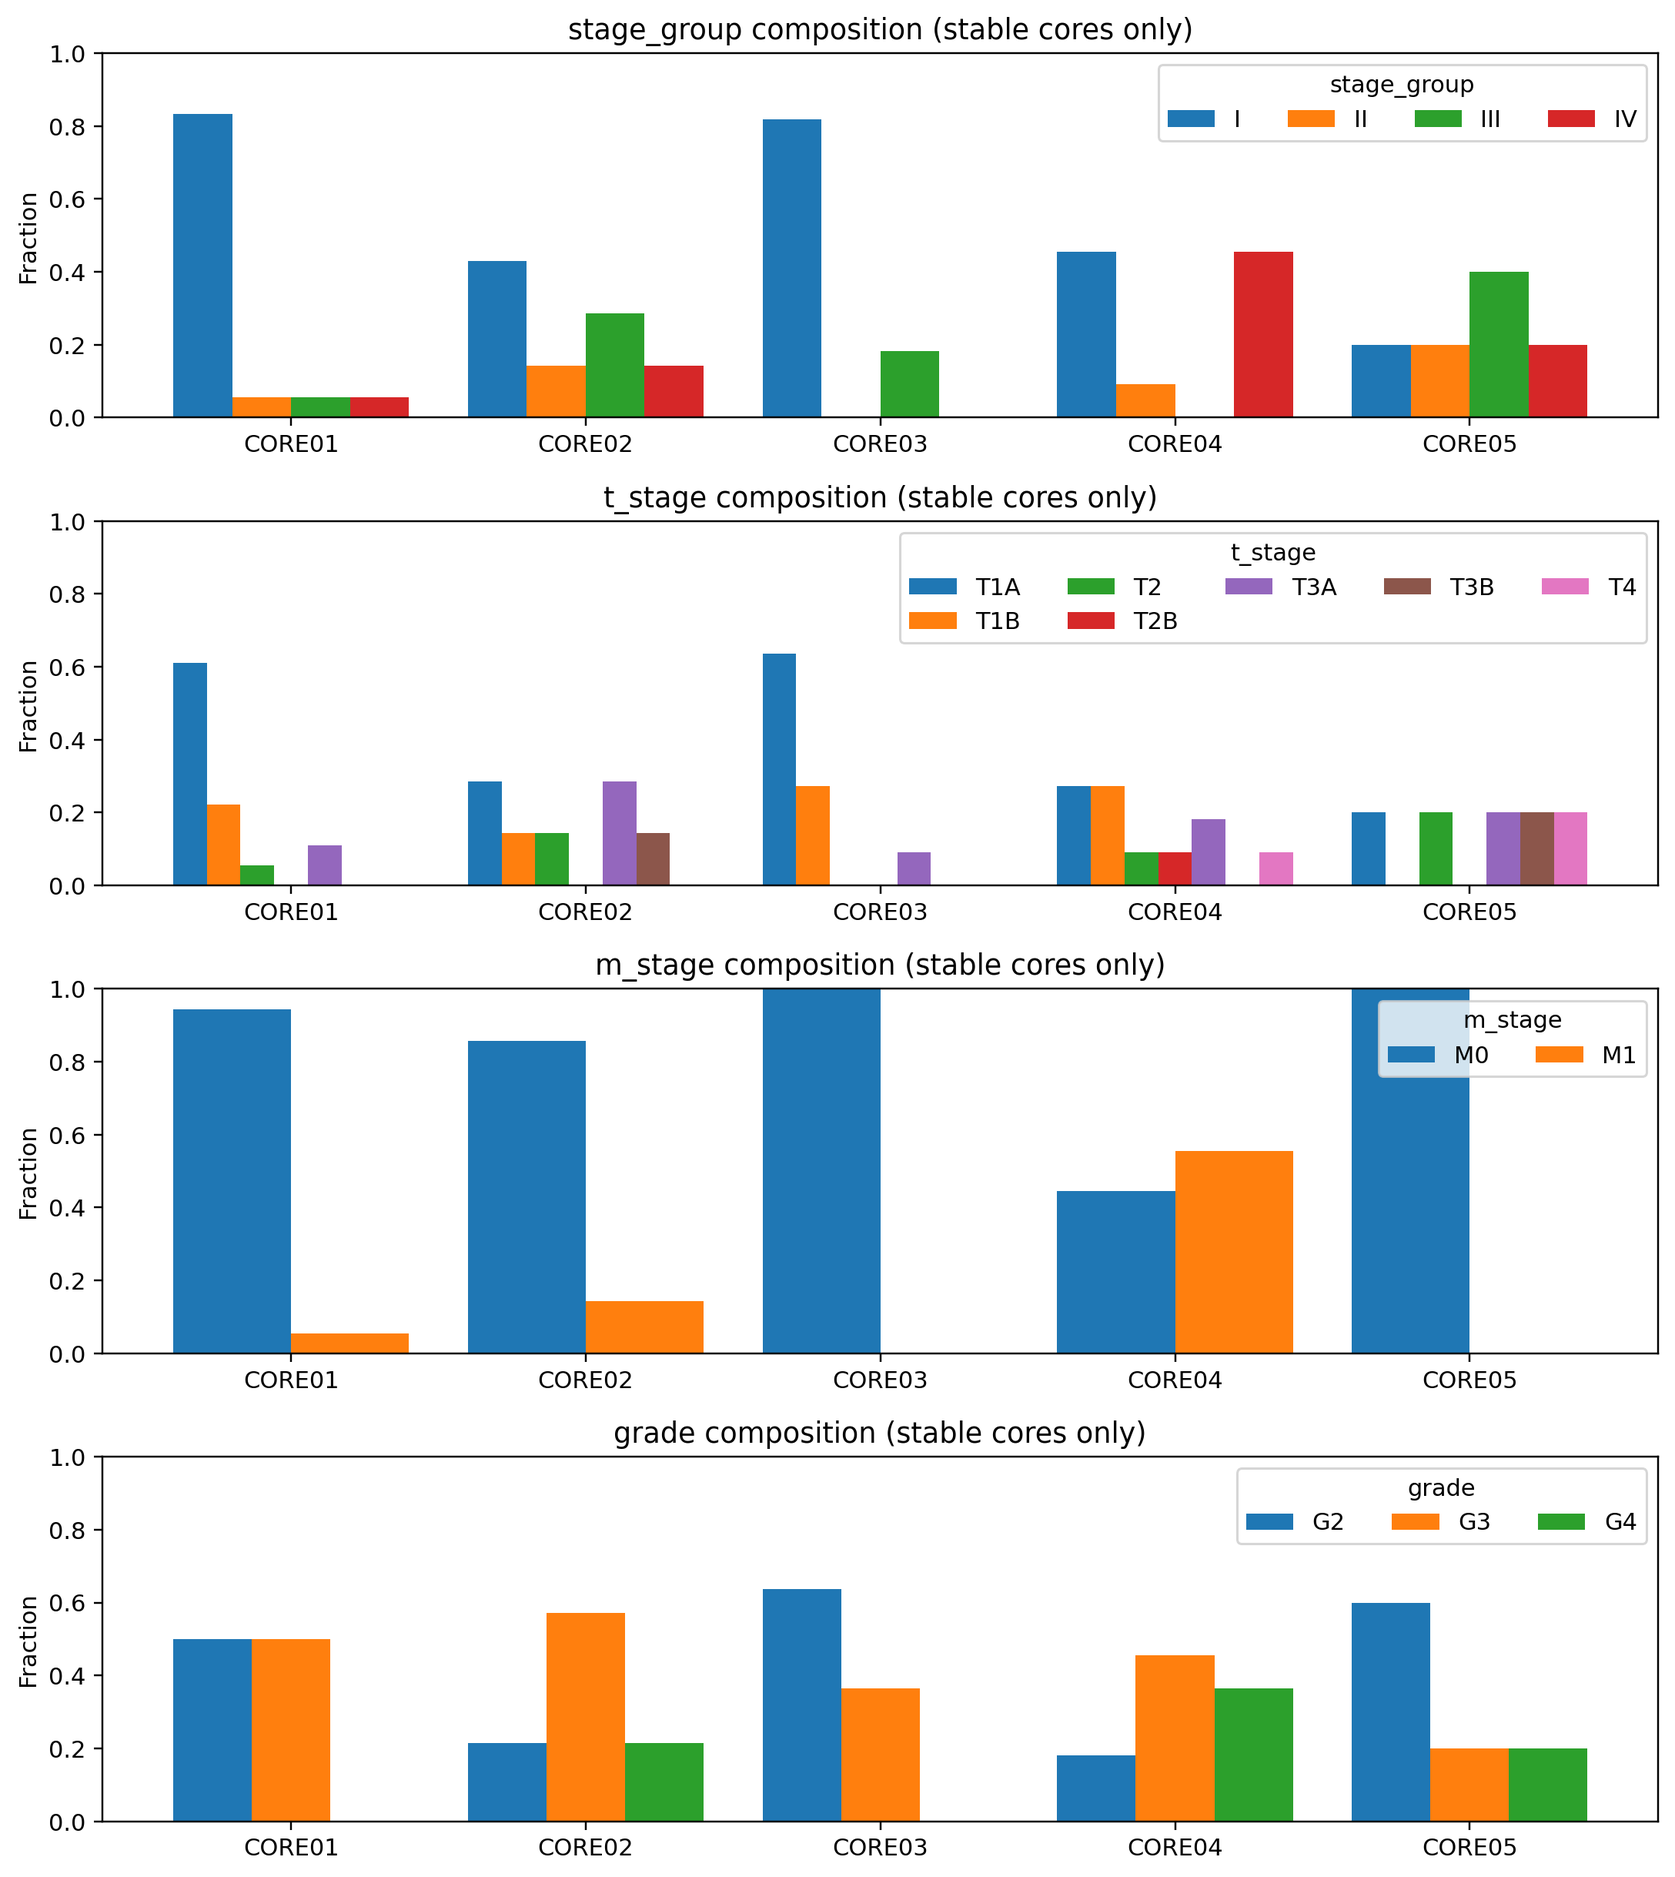
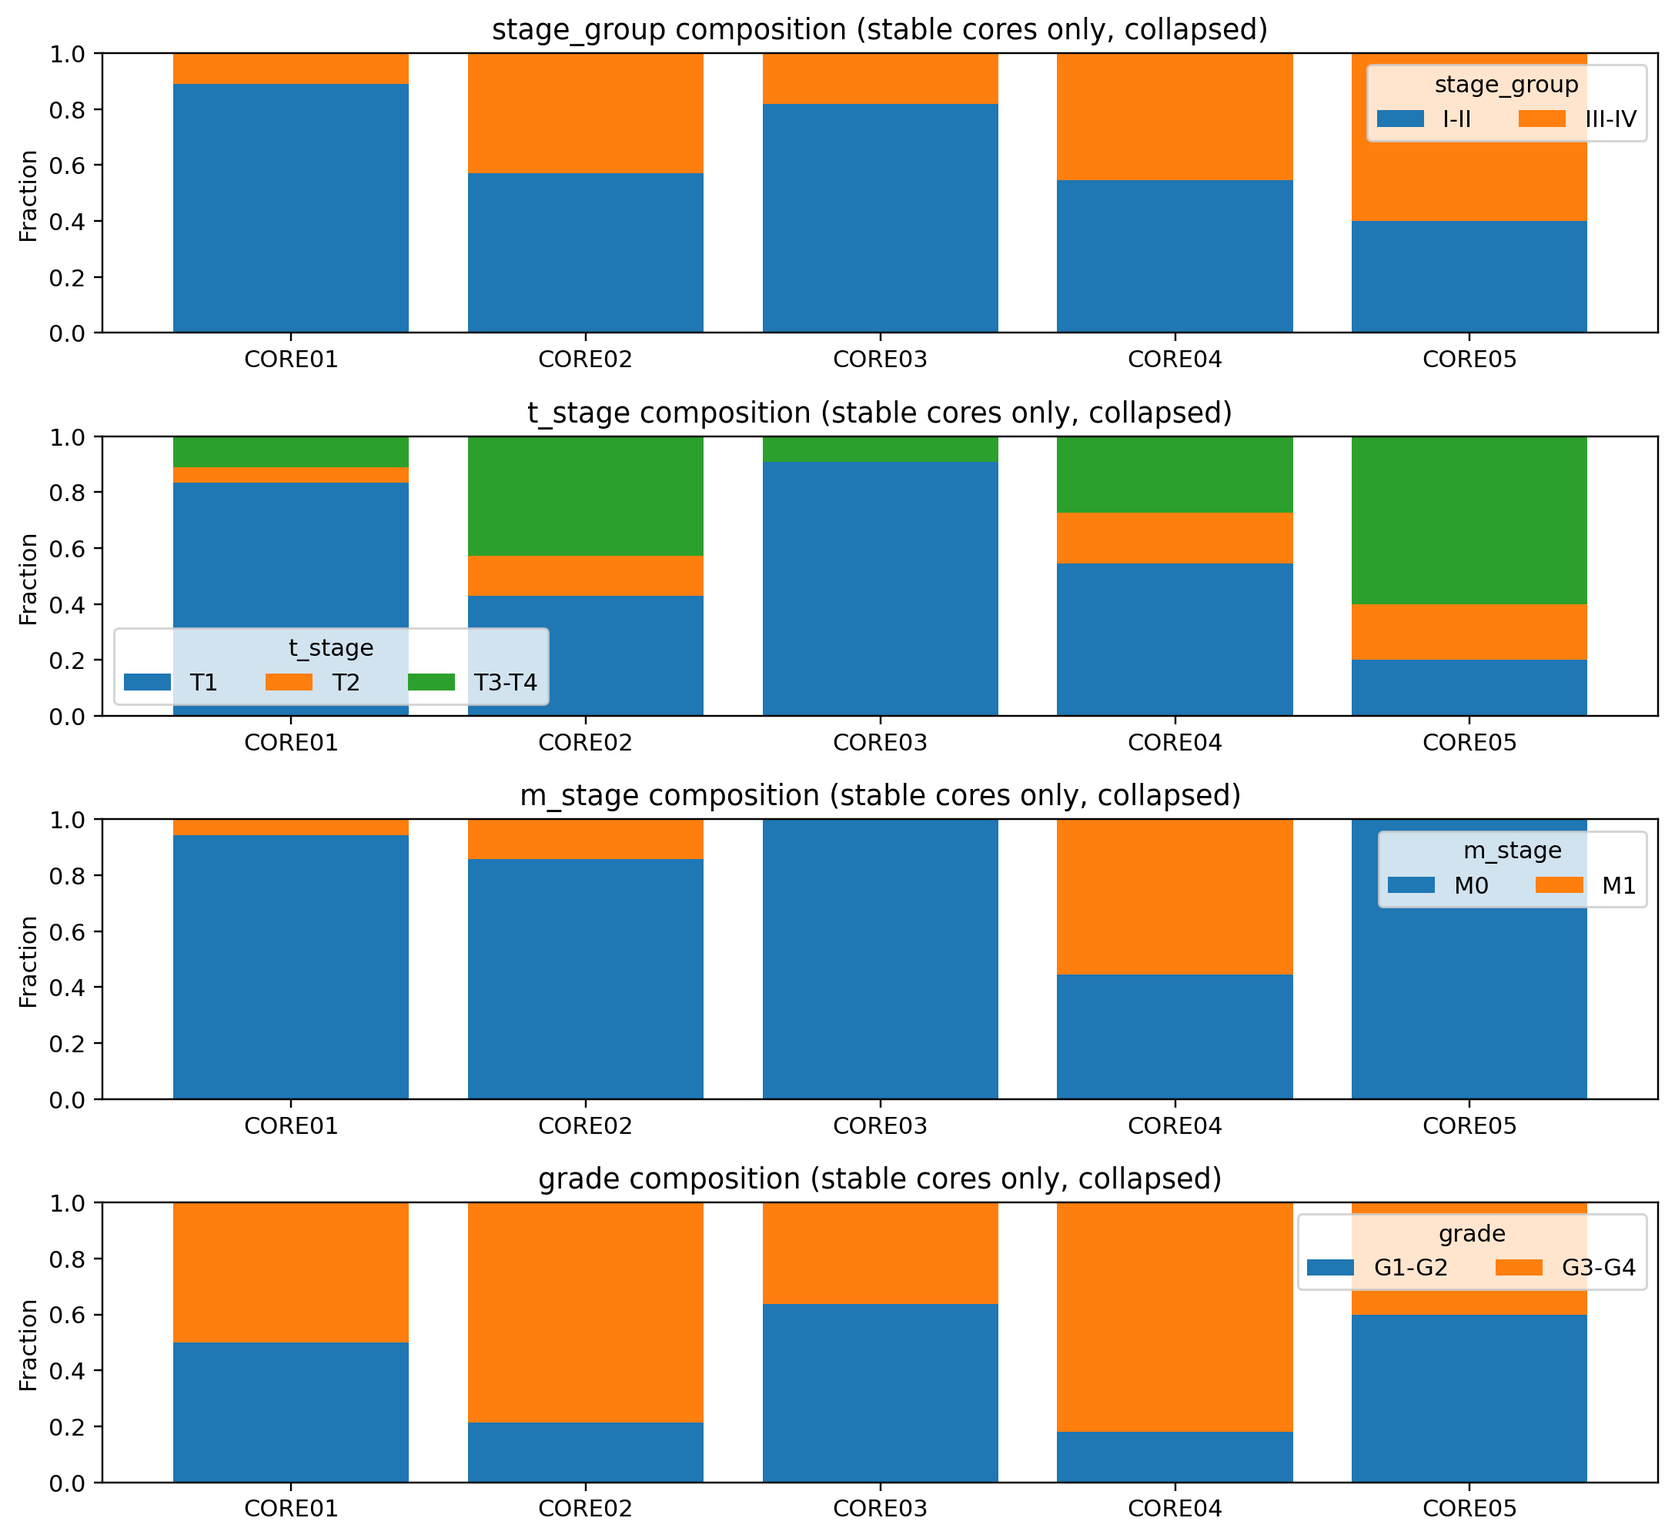
更新代码

diff --git a/scripts_2026_8_17/analyze_multi_k_stable_cores.py b/scripts_2026_8_17/analyze_multi_k_stable_cores.py
@@ -547,7 +547,7 @@ def plot_patient_coassignment(path, runs, cores):
                 if case_a not in assignment or case_b not in assignment: continue
                 denominator[i, j] += 1; denominator[j, i] += 1
                 if assignment[case_a] == assignment[case_b]: numerator[i, j] += 1; numerator[j, i] += 1
-    matrix = np.divide(numerator, denominator, out=np.full_like(numerator, np.nan), where=denominator > 0); np.fill_diagonal(matrix, 1); figure, axis = plt.subplots(figsize=(12, 11)); image = axis.imshow(matrix, vmin=0, vmax=1, cmap="viridis", interpolation="none"); axis.set_xticks(range(len(case_ids)), case_ids, rotation=90, fontsize=5); axis.set_yticks(range(len(case_ids)), case_ids, fontsize=5); axis.set_title("Patient co-assignment across accepted multi-K runs (stable cores only)"); figure.colorbar(image, ax=axis, label="Conditional co-assignment fraction")
+    matrix = np.divide(numerator, denominator, out=np.full_like(numerator, np.nan), where=denominator > 0); np.fill_diagonal(matrix, 1); figure, axis = plt.subplots(figsize=(12, 11)); image = axis.imshow(matrix, vmin=0, vmax=1, cmap="viridis", interpolation="none"); axis.set_xticks(range(len(case_ids)), case_ids, rotation=90, fontsize=5); axis.set_yticks(range(len(case_ids)), case_ids, fontsize=5); axis.set_title(f"Patient co-assignment across accepted multi-K runs (stable cores only, n={len(case_ids)})"); figure.colorbar(image, ax=axis, label="Conditional co-assignment fraction")
     start = 0
     for core in sorted(cores):
         start += len(cores[core]); axis.axhline(start - .5, color="white", linewidth=1.2); axis.axvline(start - .5, color="white", linewidth=1.2)
@@ -556,56 +556,71 @@ def plot_patient_coassignment(path, runs, cores):
 
 def plot_core_k_alluvial(path, runs, cores):
     from collections import Counter
+    from matplotlib.patches import Polygon
     from utils.visualization import configure_matplotlib
     configure_matplotlib(); import matplotlib.pyplot as plt
-    by_k = {}
-    for run in runs:
-        by_k.setdefault(run["initial_k"], []).append(run)
-    parent_by_k = {}
+    case_ids = sorted(set().union(*(set(members) for members in cores.values()))); by_k = {}
+    for run in runs: by_k.setdefault(run["initial_k"], []).append(run)
+    assignments = {}
     for initial_k, k_runs in sorted(by_k.items()):
-        parent_by_k[initial_k] = {}
-        for core, members in cores.items():
-            parents = []
-            for run in k_runs:
-                overlaps = [(set_id, len(set(members) & set(ids))) for set_id, ids in run["sets"].items()]
-                if overlaps:
-                    parent, overlap = max(overlaps, key=lambda item: (item[1], item[0]))
-                    if overlap / len(members) >= .5: parents.append(parent)
-            parent_by_k[initial_k][core] = Counter(parents).most_common(1)[0][0] if parents else "not estimable"
-    k_values = sorted(parent_by_k); labels_by_k = {k: sorted({parent_by_k[k][core] for core in cores}) for k in k_values}; y_by_k = {k: {label: i for i, label in enumerate(labels_by_k[k])} for k in k_values}; figure, axis = plt.subplots(figsize=(12, 7)); colors = {core: plt.get_cmap("tab10")(i) for i, core in enumerate(sorted(cores))}
-    for core in sorted(cores):
-        points = [(k, y_by_k[k][parent_by_k[k][core]]) for k in k_values if parent_by_k[k][core] in y_by_k[k]]
-        if points:
-            axis.plot([point[0] for point in points], [point[1] for point in points], marker="o", linewidth=max(2, len(cores[core]) / 4), alpha=.65, color=colors[core], label=f"{core} (n={len(cores[core])})")
-            for k, y in points: axis.annotate(parent_by_k[k][core], (k, y), xytext=(0, 7), textcoords="offset points", ha="center", fontsize=6, color=colors[core])
-    axis.set_xticks(k_values, [f"K={k}" for k in k_values]); axis.set_yticks(sorted({y for mapping in y_by_k.values() for y in mapping.values()})); axis.set_ylabel("Accepted parent set index (labels local to K)"); axis.set_title("Stable-core parent flow across initial K (descriptive)"); axis.legend(title="Stable core", bbox_to_anchor=(1.02, 1), loc="upper left"); figure.tight_layout(); save_figure(figure, path); return len(cores)
+        assignments[initial_k] = {}
+        for case_id in case_ids:
+            labels = [set_id for run in k_runs for set_id, members in run["sets"].items() if case_id in members]
+            assignments[initial_k][case_id] = Counter(labels).most_common(1)[0][0] if labels else "not accepted"
+    k_values = sorted(assignments); nodes = {k: sorted(set(assignments[k].values())) for k in k_values}
+    node_bounds = {}
+    for k in k_values:
+        offset = 0; node_bounds[k] = {}
+        for node in nodes[k]:
+            count = sum(assignments[k][case_id] == node for case_id in case_ids); node_bounds[k][node] = (offset, offset + count); offset += count
+    figure, axis = plt.subplots(figsize=(14, 8)); core_colors = {core: plt.get_cmap("tab10")(i) for i, core in enumerate(sorted(cores))}; core_by_case = {case_id: core for core, members in cores.items() for case_id in members}; node_color = {}
+    for k in k_values:
+        for node in nodes[k]:
+            members = [case_id for case_id in case_ids if assignments[k][case_id] == node]; counts = Counter(core_by_case[case_id] for case_id in members); node_color[k, node] = core_colors[counts.most_common(1)[0][0]] if counts else "lightgray"; axis.fill_between([k - .08, k + .08], *node_bounds[k][node], color=node_color[k, node], alpha=.85); axis.text(k, sum(node_bounds[k][node]) / 2, f"{node}\n(n={len(members)})", ha="center", va="center", fontsize=7)
+    for left_k, right_k in zip(k_values, k_values[1:]):
+        flows = {}
+        for source in nodes[left_k]:
+            for target in nodes[right_k]:
+                members = [case_id for case_id in case_ids if assignments[left_k][case_id] == source and assignments[right_k][case_id] == target]
+                if members: flows[source, target] = members
+        source_offset = {node: node_bounds[left_k][node][0] for node in nodes[left_k]}; target_offset = {node: node_bounds[right_k][node][0] for node in nodes[right_k]}
+        for (source, target), members in flows.items():
+            y0, y1 = source_offset[source], source_offset[source] + len(members); z0, z1 = target_offset[target], target_offset[target] + len(members); source_offset[source] = y1; target_offset[target] = z1; counts = Counter(core_by_case[case_id] for case_id in members); color = core_colors[counts.most_common(1)[0][0]] if counts else "gray"; axis.add_patch(Polygon([(left_k + .08, y0), (left_k + .08, y1), (right_k - .08, z1), (right_k - .08, z0)], closed=True, facecolor=color, edgecolor="none", alpha=.28))
+    axis.set_xticks(k_values, [f"K={k}" for k in k_values]); axis.set_ylabel("Stable-core patient count"); axis.set_title("Patient flow across initial K (stable-core patients only)"); axis.set_xlim(min(k_values) - .3, max(k_values) + .3); axis.set_ylim(0, len(case_ids)); axis.legend(handles=[plt.Line2D([0], [0], color=core_colors[core], linewidth=6, label=f"{core} (n={len(cores[core])})") for core in sorted(cores)], title="Stable core", bbox_to_anchor=(1.02, 1), loc="upper left"); figure.tight_layout(); save_figure(figure, path); return len(cores)
 
 
 def plot_patient_rna_heatmap(path, scores, pathways, cores, records):
     from utils.visualization import configure_matplotlib
     configure_matplotlib(); import matplotlib.pyplot as plt
     from matplotlib.colors import ListedColormap
-    case_ids = [case_id for core in sorted(cores) for case_id in sorted(cores[core]) if case_id in scores.index]; pathways = [pathway for pathway in pathways if pathway in scores.columns]; matrix = scores.loc[case_ids, pathways].astype(float).to_numpy().T; matrix = (matrix - np.nanmean(matrix, axis=1, keepdims=True)) / np.where(np.nanstd(matrix, axis=1, keepdims=True) > 0, np.nanstd(matrix, axis=1, keepdims=True), 1); fields = ["CORE", "stage_group", "grade", "m_stage", "OS event"]; annotation = np.zeros((len(fields), len(case_ids)), dtype=int); annotation_maps = []
+    from matplotlib.patches import Patch
+    case_ids = [case_id for core in sorted(cores) for case_id in sorted(cores[core]) if case_id in scores.index]; pathways = [pathway for pathway in pathways if pathway in scores.columns]; matrix = scores.loc[case_ids, pathways].astype(float).to_numpy().T; matrix = (matrix - np.nanmean(matrix, axis=1, keepdims=True)) / np.where(np.nanstd(matrix, axis=1, keepdims=True) > 0, np.nanstd(matrix, axis=1, keepdims=True), 1); fields = ["CORE", "TSS", "stage_group", "grade", "m_stage", "OS event", "Age"]; annotation = np.zeros((len(fields), len(case_ids)), dtype=float); legend_handles = []; annotation_levels = []
     for row_index, field in enumerate(fields):
-        values_for_field = [next((core for core, members in cores.items() if case_id in members), "") if field == "CORE" else str(records.get(case_id, {}).get("os_event", "")) if field == "OS event" else str(records.get(case_id, {}).get(field, "")) for case_id in case_ids]; levels = sorted(set(values_for_field)); mapping = {value: index + 1 for index, value in enumerate(levels)}; annotation[row_index] = [mapping[value] for value in values_for_field]; annotation_maps.append((field, levels))
-    figure, axes = plt.subplots(len(fields) + 1, 1, figsize=(max(12, len(case_ids) * .22), max(7, len(pathways) * .3)), gridspec_kw={"height_ratios": [0.24] * len(fields) + [max(3, len(pathways) * .24)]}, sharex=True); annotation_colors = plt.get_cmap("tab20")
-    for row_index, (axis, (field, levels)) in enumerate(zip(axes, annotation_maps)):
-        axis.imshow(annotation[row_index][None, :], aspect="auto", interpolation="none", cmap=ListedColormap(["white"] + [annotation_colors(i) for i in range(len(levels))]), vmin=0, vmax=max(len(levels), 1)); axis.set_yticks([0], [field]); axis.set_xticks([])
-    image = axes[-1].imshow(matrix, aspect="auto", interpolation="none", cmap="RdBu_r", vmin=-2.5, vmax=2.5); axes[-1].set_yticks(range(len(pathways)), pathways); axes[-1].set_xticks(range(len(case_ids)), case_ids, rotation=90, fontsize=5); axes[-1].set_xlabel("Stable-core patient"); axes[-1].set_title("Patient-level Hallmark ssGSEA signatures (row z-score)"); figure.colorbar(image, ax=axes[-1], label="ssGSEA z-score", shrink=.7); start = 0
-    for core in sorted(cores):
-        start += sum(case_id in case_ids for case_id in cores[core]); axes[-1].axvline(start - .5, color="black", linewidth=.8)
-    figure.tight_layout(); save_figure(figure, path); return len(case_ids)
+        values_for_field = [next((core for core, members in cores.items() if case_id in members), "") if field == "CORE" else case_id.split("-")[1] if field == "TSS" and len(case_id.split("-")) > 2 else "" if field == "TSS" else str(records.get(case_id, {}).get("os_event", "")) if field == "OS event" else records.get(case_id, {}).get("age") if field == "Age" else str(records.get(case_id, {}).get(field, "")) for case_id in case_ids]
+        if field == "Age": annotation[row_index] = [finite(value) if finite(value) is not None else np.nan for value in values_for_field]; annotation_levels.append(None)
+        else:
+            levels = sorted(set(values_for_field)); mapping = {value: index + 1 for index, value in enumerate(levels)}; annotation[row_index] = [mapping[value] for value in values_for_field]; annotation_levels.append(levels); legend_handles.extend(Patch(facecolor=plt.get_cmap("tab20")(i), label=f"{field}: {level}") for i, level in enumerate(levels))
+    figure, (annotation_axis, heatmap_axis) = plt.subplots(2, 1, figsize=(max(14, len(case_ids) * .22), max(9, len(pathways) * .36 + 2)), gridspec_kw={"height_ratios": [.9, max(5, len(pathways) * .34)]}, sharex=True); annotation_colors = plt.get_cmap("tab20")
+    for row_index, (field, levels) in enumerate(zip(fields, annotation_levels)):
+        if field == "Age": annotation_axis.imshow(annotation[row_index][None, :], aspect="auto", interpolation="none", cmap="viridis", extent=(-.5, len(case_ids) - .5, row_index, row_index + 1))
+        else: annotation_axis.imshow(annotation[row_index][None, :], aspect="auto", interpolation="none", cmap=ListedColormap(["white"] + [annotation_colors(i) for i in range(len(levels))]), vmin=0, vmax=max(len(levels), 1), extent=(-.5, len(case_ids) - .5, row_index, row_index + 1))
+    annotation_axis.set_yticks(np.arange(len(fields)) + .5, fields); annotation_axis.set_ylim(len(fields), 0); annotation_axis.set_xticks([]); annotation_axis.set_title("Clinical and technical annotations (Age uses continuous viridis scale)"); image = heatmap_axis.imshow(matrix, aspect="auto", interpolation="none", cmap="RdBu_r", vmin=-2.5, vmax=2.5); heatmap_axis.set_yticks(range(len(pathways)), pathways); heatmap_axis.set_xticks(range(len(case_ids)), case_ids, rotation=90, fontsize=5); heatmap_axis.set_xlabel("Stable-core patient"); heatmap_axis.set_title("Patient-level Hallmark ssGSEA signatures (row z-score)"); figure.colorbar(image, ax=heatmap_axis, label="ssGSEA z-score", shrink=.7); start = 0
+    for core in sorted(cores): start += sum(case_id in case_ids for case_id in cores[core]); heatmap_axis.axvline(start - .5, color="black", linewidth=.8); annotation_axis.axvline(start - .5, color="black", linewidth=.8)
+    figure.legend(handles=legend_handles, loc="upper left", bbox_to_anchor=(.72, .99), ncol=2, fontsize=6, frameon=False); figure.tight_layout(rect=[0, 0, .7, .96]); save_figure(figure, path); return len(case_ids)
 
 
 def plot_clinical_proportions(path, records, cores):
     from utils.visualization import configure_matplotlib
     configure_matplotlib(); import matplotlib.pyplot as plt
-    variables = [variable for variable in ("stage_group", "t_stage", "m_stage", "grade") if any(clinical_value(records.get(case_id, {}), variable) is not None for members in cores.values() for case_id in members)]; figure, axes = plt.subplots(max(1, len(variables)), 1, figsize=(10, max(3, len(variables) * 2.8)), squeeze=False); axes = axes[:, 0]; core_order = sorted(cores)
+    collapse = {"stage_group": lambda value: "I-II" if value in {"I", "II"} else "III-IV" if value in {"III", "IV"} else value, "t_stage": lambda value: "T1" if value.startswith("T1") else "T2" if value.startswith("T2") else "T3-T4" if value.startswith("T3") or value.startswith("T4") else value, "m_stage": lambda value: value, "grade": lambda value: "G1-G2" if value in {"G1", "G2"} else "G3-G4" if value in {"G3", "G4"} else value}; variables = [variable for variable in collapse if any(clinical_value(records.get(case_id, {}), variable) is not None for members in cores.values() for case_id in members)]; figure, axes = plt.subplots(max(1, len(variables)), 1, figsize=(10, max(3, len(variables) * 2.3)), squeeze=False); axes = axes[:, 0]; core_order = sorted(cores)
     for axis, variable in zip(axes, variables):
-        levels = sorted({clinical_value(records.get(case_id, {}), variable) for members in cores.values() for case_id in members if clinical_value(records.get(case_id, {}), variable) is not None}); width = .8 / max(len(levels), 1)
-        for index, level in enumerate(levels):
-            fractions = [sum(clinical_value(records.get(case_id, {}), variable) == level for case_id in cores[core]) / len([case_id for case_id in cores[core] if clinical_value(records.get(case_id, {}), variable) is not None]) if any(clinical_value(records.get(case_id, {}), variable) is not None for case_id in cores[core]) else 0 for core in core_order]; axis.bar(np.arange(len(core_order)) + index * width, fractions, width=width, label=level)
-        axis.set_xticks(np.arange(len(core_order)) + width * max(len(levels) - 1, 0) / 2, core_order); axis.set_ylim(0, 1); axis.set_ylabel("Fraction"); axis.set_title(f"{variable} composition (stable cores only)"); axis.legend(title=variable, ncol=min(5, max(1, len(levels))))
+        levels = sorted({collapse[variable](clinical_value(records.get(case_id, {}), variable)) for members in cores.values() for case_id in members if clinical_value(records.get(case_id, {}), variable) is not None}); bottom = np.zeros(len(core_order))
+        for level in levels:
+            fractions = []
+            for core in core_order:
+                values_for_core = [clinical_value(records.get(case_id, {}), variable) for case_id in cores[core]]; values_for_core = [collapse[variable](value) for value in values_for_core if value is not None]; fractions.append(values_for_core.count(level) / len(values_for_core) if values_for_core else 0)
+            axis.bar(core_order, fractions, bottom=bottom, label=level); bottom += fractions
+        axis.set_ylim(0, 1); axis.set_ylabel("Fraction"); axis.set_title(f"{variable} composition (stable cores only, collapsed)"); axis.legend(title=variable, ncol=min(5, max(1, len(levels))))
     if not variables: axes[0].text(.5, .5, "No estimable clinical variables", ha="center", va="center"); axes[0].set_axis_off()
     figure.tight_layout(); save_figure(figure, path); return len(variables)
 
